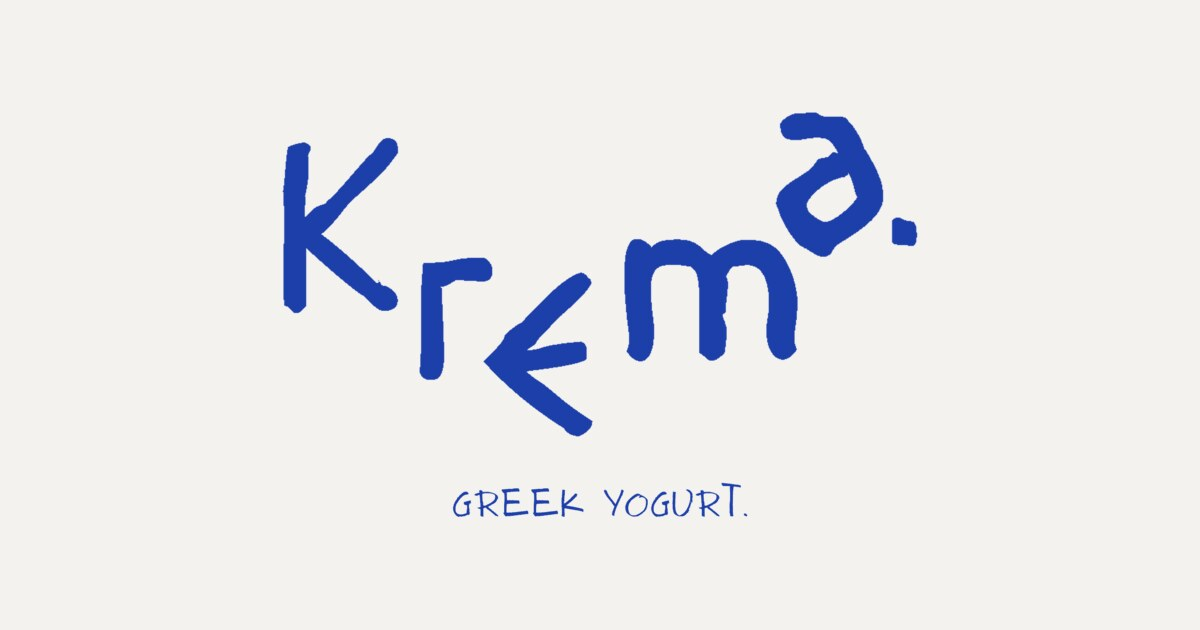
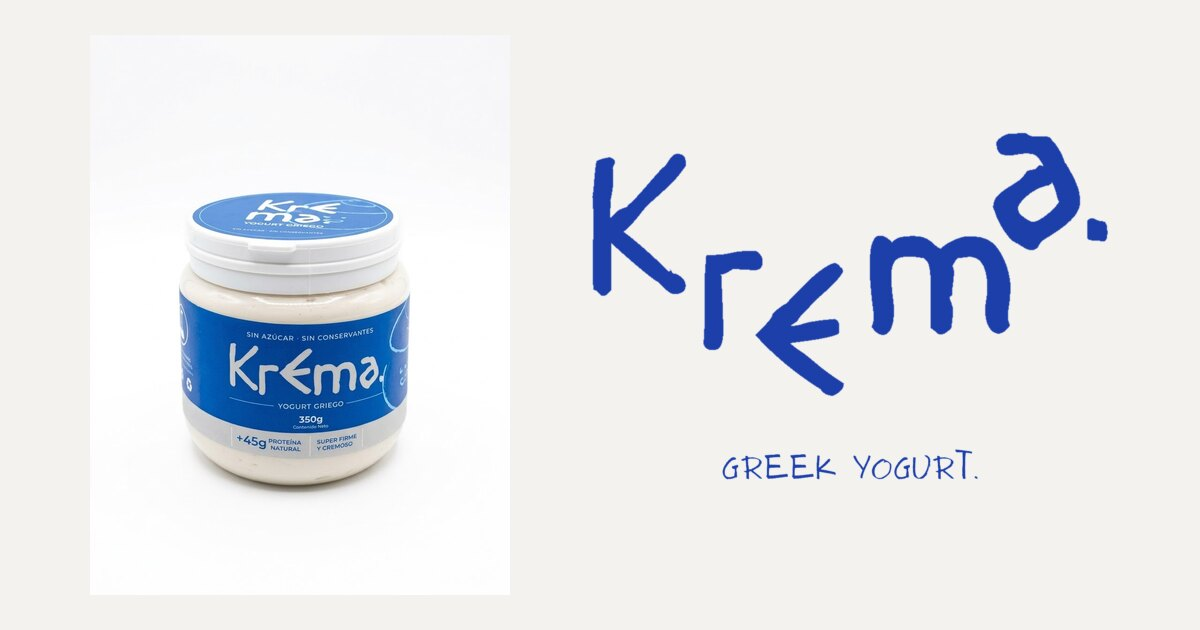
Agregar foto del pote y datos de la etiqueta (sin azúcar, sin conservantes, +45 g de proteína)
Claude-Session: https://claude.ai/code/session_01MUgEZztt4RPMAJDEZreK4G

Changed region(s): [[0.4008, 0.181, 0.925, 0.6937], [0.1233, 0.2111, 0.4317, 0.7841], [0.37, 0.7238, 0.8325, 0.8444]]

diff --git a/index.html b/index.html
@@ -4,7 +4,7 @@
 <meta charset="UTF-8">
 <meta name="viewport" content="width=device-width, initial-scale=1">
 <title>Krema · Yogur griego artesanal en Villa Allende, Córdoba</title>
-<meta name="description" content="Krema es yogur griego artesanal hecho en Villa Allende, Córdoba, con la receta y la textura del yogur de Grecia. Conocé nuestra historia, precios y hacé tu pedido por WhatsApp.">
+<meta name="description" content="Krema es yogur griego artesanal hecho en Villa Allende, Córdoba: sin azúcar, sin conservantes y con +45 g de proteína por pote. Conocé nuestra historia, precios y hacé tu pedido por WhatsApp.">
 <meta name="theme-color" content="#1d3faa">
 
 <!-- Vista previa al compartir el link (WhatsApp, Instagram, Facebook) -->
@@ -135,7 +135,7 @@ nav .wrap{display:flex;align-items:center;justify-content:space-between;height:7
 .product{background:var(--sage);padding:110px 0}
 .product .wrap{display:grid;grid-template-columns:1fr 1fr;gap:56px;align-items:center}
 .product-visual{position:relative}
-.product-circle{aspect-ratio:1;background:var(--bone);border-radius:50%;display:flex;align-items:center;justify-content:center;overflow:hidden}
+.product-circle{aspect-ratio:1;background:#f7f7f7;border-radius:50%;display:flex;align-items:center;justify-content:center;overflow:hidden}
 .product-circle img{width:100%;height:100%;object-fit:cover}
 .product-circle img.is-mascota{width:60%;height:auto;object-fit:contain}
 .sticker{position:absolute;top:2%;right:2%;width:124px;height:124px;border-radius:50%;background:var(--blue);color:var(--white);display:flex;flex-direction:column;align-items:center;justify-content:center;transform:rotate(12deg);text-align:center;line-height:1;z-index:2}
@@ -143,6 +143,10 @@ nav .wrap{display:flex;align-items:center;justify-content:space-between;height:7
 .sticker span{font-family:"Architects Daughter",cursive;font-size:13px;letter-spacing:.1em;margin-top:4px;text-transform:uppercase}
 .product-info .title{margin-bottom:22px}
 .product-info p{font-size:18px;color:#24282c;max-width:440px;margin-bottom:24px}
+.facts{display:grid;grid-template-columns:repeat(3,1fr);gap:12px;margin-bottom:24px;max-width:460px}
+.facts div{background:var(--bone);border-radius:18px;padding:14px 12px;text-align:center;line-height:1.15}
+.facts b{display:block;font-weight:900;font-size:30px;letter-spacing:-.03em;color:var(--blue)}
+.facts span{font-size:13px;font-weight:600;color:#2c2f33}
 .ideas{display:flex;flex-wrap:wrap;gap:10px;margin-bottom:30px}
 .ideas li{list-style:none;border:1.5px solid var(--ink);border-radius:999px;padding:6px 14px;font-size:14px;font-weight:600}
 .price-tag{display:flex;align-items:baseline;flex-wrap:wrap;gap:6px 14px;margin-bottom:30px}
@@ -273,8 +277,8 @@ footer .wrap.top{display:grid;grid-template-columns:auto 1fr auto;gap:40px;align
 
 <div class="marquee-wrap" aria-hidden="true"><div class="marquee">
   <div class="marquee-track">
-    <span>Inspirado en Grecia</span><span>Proceso artesanal</span><span>Hecho en Villa Allende</span><span>Extra cremoso</span>
-    <span>Inspirado en Grecia</span><span>Proceso artesanal</span><span>Hecho en Villa Allende</span><span>Extra cremoso</span>
+    <span>Sin azúcar</span><span>Sin conservantes</span><span>+45 g de proteína</span><span>Súper firme y cremoso</span><span>Hecho en Villa Allende</span>
+    <span>Sin azúcar</span><span>Sin conservantes</span><span>+45 g de proteína</span><span>Súper firme y cremoso</span><span>Hecho en Villa Allende</span>
   </div>
 </div></div>
 
@@ -325,7 +329,12 @@ footer .wrap.top{display:grid;grid-template-columns:auto 1fr auto;gap:40px;align
     <div class="product-info">
       <span class="kicker">El producto</span>
       <h2 class="title">Yogur griego natural.</h2>
-      <p>Espeso de verdad, suave y con el sabor del yogur que probamos en Grecia. Un pote de 350 g para disfrutar como más te guste.</p>
+      <p>Súper firme, cremoso y con el sabor del yogur que probamos en Grecia. Sin azúcar y sin conservantes: solo yogur de verdad.</p>
+      <div class="facts">
+        <div><b>+45 g</b><span>de proteína natural</span></div>
+        <div><b>0</b><span>azúcar agregada</span></div>
+        <div><b>0</b><span>conservantes</span></div>
+      </div>
       <ul class="ideas"><li>Con frutas</li><li>Con granola</li><li>Con miel</li><li>Para cocinar</li></ul>
       <div class="price-tag">
         <span class="price">$7.000</span>
